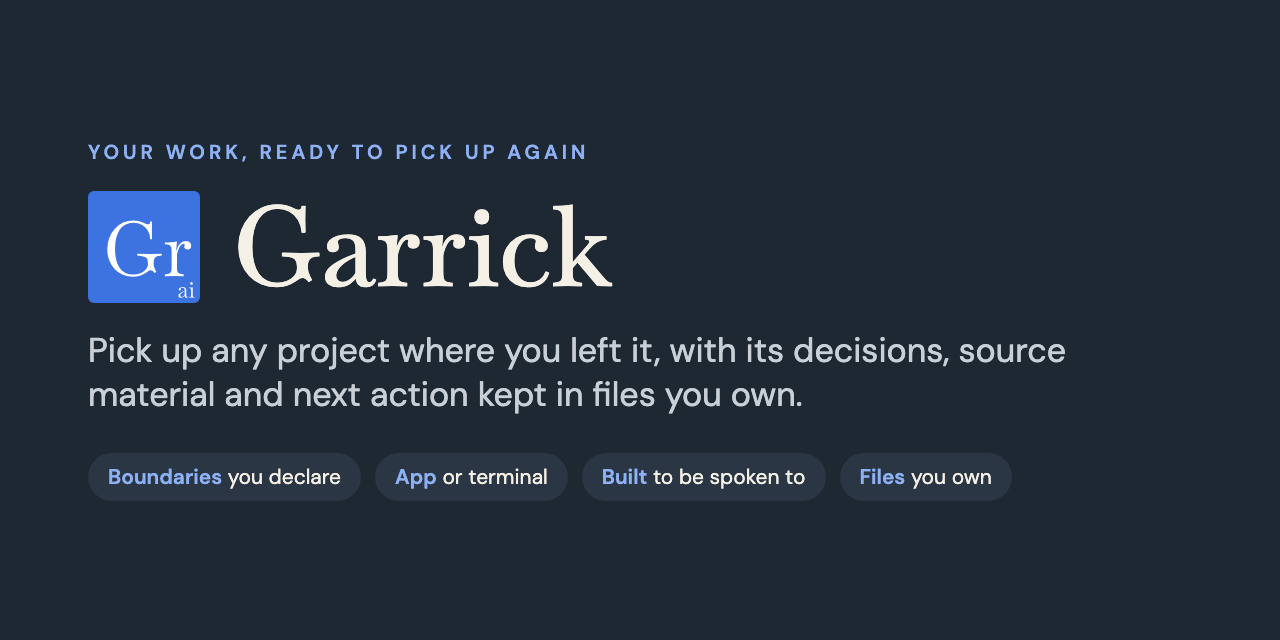
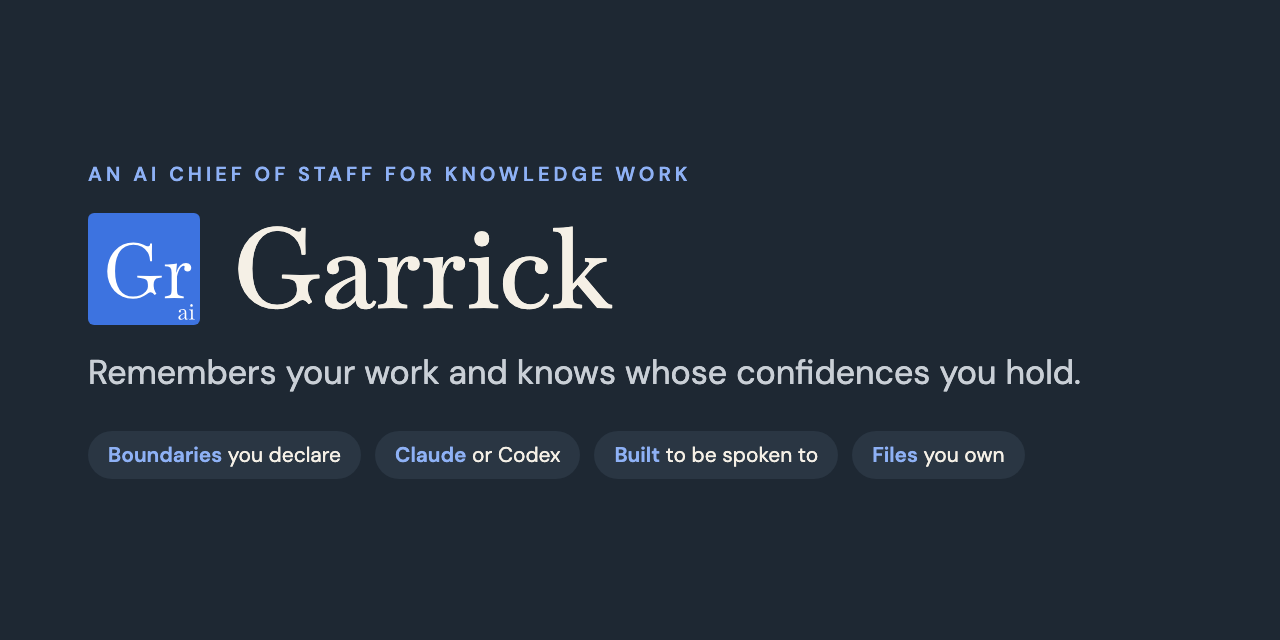
Garrick 0.3.1: an AI chief of staff that knows whose confidences you hold
README, social card, deck and walkthrough captions take the new wording:
"Garrick remembers your work and knows whose confidences you hold. An AI
chief of staff for your knowledge work, running on the agent you already
use. Everything stays in files you own." The README embeds the re-cut
walkthrough.

diff --git a/presentation/index.html b/presentation/index.html
@@ -446,9 +446,9 @@ body.editing .editable {
       <svg class="cover-mark reveal" viewBox="0 0 64 64" xmlns="http://www.w3.org/2000/svg" role="img" aria-label="Garrick's mark"><rect width="64" height="64" rx="3.5" fill="#3D73E0"/><path d="M397 -11Q325 -11 263.5 15.5Q202 42 157.0 90.5Q112 139 87.0 204.5Q62 270 62 348Q62 427 88.0 495.5Q114 564 160.5 615.0Q207 666 269.0 695.0Q331 724 403 724Q436 724 468.0 717.5Q500 711 536 692Q558 681 570.0 677.0Q582 673 592 673Q621 673 621 710H646L644 595L646 478H621Q619 543 590.5 591.5Q562 640 513.5 667.0Q465 694 402 694Q289 694 226.5 604.0Q164 514 164 350Q164 190 224.5 104.5Q285 19 398 19Q451 19 495.0 36.5Q539 54 565.5 83.0Q592 112 592 146V174Q592 218 571.5 237.0Q551 256 496 261L453 265V289L619 285L773 289V265L728 261Q667 255 667 174V156Q667 118 689 79L703 54L680 39Q656 75 629 75Q619 75 611.5 71.5Q604 68 576 48Q533 17 490.0 3.0Q447 -11 397 -11Z" fill="#FFFFFF" transform="translate(8.28 48.54) scale(0.04384 -0.04384)"/><path d="M28 -3V20L44 22Q77 26 92.0 33.5Q107 41 111.5 61.0Q116 81 116 121V329Q116 378 97.5 395.5Q79 413 28 413V436Q68 436 105.5 439.0Q143 442 186 448L175 333H186V121Q186 81 190.5 61.0Q195 41 210.5 33.5Q226 26 258 22L274 20V-3L151 0ZM184 269 173 312Q194 391 228.0 422.5Q262 454 304 454Q344 454 358.0 434.0Q372 414 372 394Q372 372 359.0 358.0Q346 344 323 344Q305 344 293.0 353.5Q281 363 281 378Q281 383 282.0 387.0Q283 391 284 398Q285 402 285.5 405.0Q286 408 286 410Q286 420 272 420Q254 420 236.5 399.5Q219 379 205.0 345.0Q191 311 184 269Z" fill="#FFFFFF" transform="translate(42.69 48.54) scale(0.04384 -0.04384)"/><path d="M405 -11Q362 -11 343.5 16.0Q325 43 325 104V320Q325 379 302.5 404.0Q280 429 227 429Q191 429 169.5 420.0Q148 411 148 396Q148 392 149.5 387.5Q151 383 152 377Q157 357 157 349Q157 333 144.5 321.5Q132 310 112 310Q93 310 81.0 323.5Q69 337 69 358Q69 386 91.5 407.5Q114 429 153.5 441.5Q193 454 244 454Q323 454 359.0 416.5Q395 379 395 296V116Q395 65 403.0 44.5Q411 24 430 24Q444 24 455.5 33.5Q467 43 472 59L490 52Q472 -11 405 -11ZM163 -11Q112 -11 81.0 14.0Q50 39 50 79Q50 117 81.0 151.5Q112 186 180 223Q210 240 247.0 256.5Q284 273 329 289L330 270Q233 230 180.5 182.0Q128 134 128 87Q128 58 145.0 42.0Q162 26 193 26Q221 26 248.5 40.5Q276 55 297.5 78.5Q319 102 328 130L334 97Q309 47 263.5 18.0Q218 -11 163 -11Z" fill="#FFFFFF" transform="translate(50.99 60.86) scale(0.01310 -0.01310)"/><path d="M28 -3V20L44 22Q77 26 92.0 33.5Q107 41 111.5 61.0Q116 81 116 121V332Q116 377 98.0 395.0Q80 413 35 413H28V436Q78 436 114.5 438.5Q151 441 186 448V121Q186 81 190.5 61.0Q195 41 210.5 33.5Q226 26 258 22L274 20V-3L151 0ZM132 554Q106 554 91.0 572.0Q76 590 76 615Q76 641 91.0 658.5Q106 676 132 676Q161 676 174.5 658.5Q188 641 188 615Q188 590 174.5 572.0Q161 554 132 554Z" fill="#FFFFFF" transform="translate(57.41 60.86) scale(0.01310 -0.01310)"/></svg>
       <p class="kicker reveal">For people who hold other people's confidences</p>
       <h1 class="deck-title reveal editable" data-edit-id="cover-title">Garrick</h1>
-      <p class="subtitle reveal editable" data-edit-id="cover-sub">A workspace, run by the AI assistant you choose, kept in files you own.</p>
+      <p class="subtitle reveal editable" data-edit-id="cover-sub">An AI chief of staff for your knowledge work, running on the agent you already use. Everything stays in files you own.</p>
       <p class="byline reveal">Marco Venuti</p>
-      <aside class="notes">Open by naming who's in the room: anyone holding confidences from more than one source: advisors and consultants, account and partner managers, analysts, people on internal projects that aren't for everyone. Lead with picking up work from a saved record. Introduce declared boundaries with their limits.</aside>
+      <aside class="notes">Open by naming who's in the room: anyone holding confidences from more than one source: advisors and consultants, account and partner managers, analysts, people on internal projects that aren't for everyone. Lead with the chief of staff: it remembers the work and knows whose confidences you hold. Claude Code or Codex is the agent underneath. Introduce declared boundaries with their limits.</aside>
     </section>
 
     <!-- ============================================================
@@ -468,8 +468,8 @@ body.editing .editable {
          ============================================================ -->
     <section class="slide slide--navy slide--statement" data-title="The claim">
       <p class="kicker reveal">The idea, in one line</p>
-      <p class="statement reveal editable" data-edit-id="claim-statement">Pick up where you left off, from a record you own.</p>
-      <p class="statement-sub reveal">Keep decisions and sources with the work. Give the assistant explicit rules for using them.</p>
+      <p class="statement reveal editable" data-edit-id="claim-statement">Garrick remembers your work and knows whose confidences you hold.</p>
+      <p class="statement-sub reveal">Decisions and sources stay with the work, in files you own. The agent underneath gets explicit rules for using them.</p>
       <aside class="notes">Say this one slowly. Everything after it is mechanism, not more argument.</aside>
     </section>
 

diff --git a/docs/assets/social-preview.html b/docs/assets/social-preview.html
@@ -14,8 +14,8 @@
   .lockup svg{width:112px;height:112px;flex:none}
 </style></head>
 <body><div class="card">
-  <p class="eyebrow">Your work, ready to pick up again</p>
+  <p class="eyebrow">An AI chief of staff for knowledge work</p>
   <div class="lockup"><svg viewBox="0 0 64 64" xmlns="http://www.w3.org/2000/svg"><rect width="64" height="64" rx="3.5" fill="#3D73E0"/><path d="M397 -11Q325 -11 263.5 15.5Q202 42 157.0 90.5Q112 139 87.0 204.5Q62 270 62 348Q62 427 88.0 495.5Q114 564 160.5 615.0Q207 666 269.0 695.0Q331 724 403 724Q436 724 468.0 717.5Q500 711 536 692Q558 681 570.0 677.0Q582 673 592 673Q621 673 621 710H646L644 595L646 478H621Q619 543 590.5 591.5Q562 640 513.5 667.0Q465 694 402 694Q289 694 226.5 604.0Q164 514 164 350Q164 190 224.5 104.5Q285 19 398 19Q451 19 495.0 36.5Q539 54 565.5 83.0Q592 112 592 146V174Q592 218 571.5 237.0Q551 256 496 261L453 265V289L619 285L773 289V265L728 261Q667 255 667 174V156Q667 118 689 79L703 54L680 39Q656 75 629 75Q619 75 611.5 71.5Q604 68 576 48Q533 17 490.0 3.0Q447 -11 397 -11Z" fill="#FFFFFF" transform="translate(8.28 48.54) scale(0.04384 -0.04384)"/><path d="M28 -3V20L44 22Q77 26 92.0 33.5Q107 41 111.5 61.0Q116 81 116 121V329Q116 378 97.5 395.5Q79 413 28 413V436Q68 436 105.5 439.0Q143 442 186 448L175 333H186V121Q186 81 190.5 61.0Q195 41 210.5 33.5Q226 26 258 22L274 20V-3L151 0ZM184 269 173 312Q194 391 228.0 422.5Q262 454 304 454Q344 454 358.0 434.0Q372 414 372 394Q372 372 359.0 358.0Q346 344 323 344Q305 344 293.0 353.5Q281 363 281 378Q281 383 282.0 387.0Q283 391 284 398Q285 402 285.5 405.0Q286 408 286 410Q286 420 272 420Q254 420 236.5 399.5Q219 379 205.0 345.0Q191 311 184 269Z" fill="#FFFFFF" transform="translate(42.69 48.54) scale(0.04384 -0.04384)"/><path d="M405 -11Q362 -11 343.5 16.0Q325 43 325 104V320Q325 379 302.5 404.0Q280 429 227 429Q191 429 169.5 420.0Q148 411 148 396Q148 392 149.5 387.5Q151 383 152 377Q157 357 157 349Q157 333 144.5 321.5Q132 310 112 310Q93 310 81.0 323.5Q69 337 69 358Q69 386 91.5 407.5Q114 429 153.5 441.5Q193 454 244 454Q323 454 359.0 416.5Q395 379 395 296V116Q395 65 403.0 44.5Q411 24 430 24Q444 24 455.5 33.5Q467 43 472 59L490 52Q472 -11 405 -11ZM163 -11Q112 -11 81.0 14.0Q50 39 50 79Q50 117 81.0 151.5Q112 186 180 223Q210 240 247.0 256.5Q284 273 329 289L330 270Q233 230 180.5 182.0Q128 134 128 87Q128 58 145.0 42.0Q162 26 193 26Q221 26 248.5 40.5Q276 55 297.5 78.5Q319 102 328 130L334 97Q309 47 263.5 18.0Q218 -11 163 -11Z" fill="#FFFFFF" transform="translate(50.99 60.86) scale(0.01310 -0.01310)"/><path d="M28 -3V20L44 22Q77 26 92.0 33.5Q107 41 111.5 61.0Q116 81 116 121V332Q116 377 98.0 395.0Q80 413 35 413H28V436Q78 436 114.5 438.5Q151 441 186 448V121Q186 81 190.5 61.0Q195 41 210.5 33.5Q226 26 258 22L274 20V-3L151 0ZM132 554Q106 554 91.0 572.0Q76 590 76 615Q76 641 91.0 658.5Q106 676 132 676Q161 676 174.5 658.5Q188 641 188 615Q188 590 174.5 572.0Q161 554 132 554Z" fill="#FFFFFF" transform="translate(57.41 60.86) scale(0.01310 -0.01310)"/></svg><h1>Garrick</h1></div>
-  <p class="tag">Pick up any project where you left it, with its decisions, source material and next action kept in files you own.</p>
-  <div class="pills"><span><b>Boundaries</b> you declare</span><span><b>App</b> or terminal</span><span><b>Built</b> to be spoken to</span><span><b>Files</b> you own</span></div>
+  <p class="tag">Remembers your work and knows whose confidences you hold.</p>
+  <div class="pills"><span><b>Boundaries</b> you declare</span><span><b>Claude</b> or Codex</span><span><b>Built</b> to be spoken to</span><span><b>Files</b> you own</span></div>
 </div></body></html>

diff --git a/README.md b/README.md
@@ -4,15 +4,17 @@
 
 [![Tests](https://github.com/iamvenuti/garrick/actions/workflows/tests.yml/badge.svg)](https://github.com/iamvenuti/garrick/actions/workflows/tests.yml) [![MIT licence](https://img.shields.io/badge/licence-MIT-blue.svg)](LICENSE) ![macOS](https://img.shields.io/badge/platform-macOS-lightgrey.svg) ![Python 3.9+](https://img.shields.io/badge/python-3.9%2B-blue.svg)
 
-**Pick up any project where you left it, with its decisions, source material and next action kept in files you own.**
+**Garrick remembers your work and knows whose confidences you hold.**
 
-Garrick gives Claude Code or Codex a workspace for your work and your memory. Ask it to file a conversation, prepare a brief or close a session. It keeps the record in plain folders on your Mac, so another session can pick up from the saved notes.
+An AI chief of staff for your knowledge work, running on the agent you already use. Everything stays in files you own.
 
-Your work may involve customers, partners under NDA and internal projects. Garrick records whose information you hold, gives the assistant rules for using it, and checks project files for specific signs of information crossing a declared boundary.
+Underneath, Claude Code or Codex does the work, in its desktop app or a terminal. Ask Garrick to file a conversation, prepare a brief or close a session. It keeps the record in plain folders on your Mac, so the next session picks up from the saved notes, whichever agent runs it.
 
-[![A dramatised example of a brief using one client's meeting and holding back the other client's material.](docs/assets/demo-wall.gif)](https://github.com/user-attachments/assets/cc315cd1-d505-4d9b-b477-bd0976888aa9)
+Your work may involve customers, partners under NDA and internal projects. Garrick records whose information you hold, gives the agent rules for using it, and checks project files for specific signs of information crossing a declared boundary.
 
-https://github.com/user-attachments/assets/cc315cd1-d505-4d9b-b477-bd0976888aa9
+[![A dramatised example of a brief using one client's meeting and holding back the other client's material.](docs/assets/demo-wall.gif)](https://github.com/user-attachments/assets/83ce60b8-a4d4-402f-bc24-804eaddda3c1)
+
+https://github.com/user-attachments/assets/83ce60b8-a4d4-402f-bc24-804eaddda3c1
 
 *The walkthrough, 98 seconds, with [captions](docs/assets/garrick-launch-video.srt). Dramatised with fictional data; it illustrates the intended workflow.*
 

diff --git a/CHANGELOG.md b/CHANGELOG.md
@@ -4,6 +4,15 @@ What changed in each release. Dates are when the release was tagged. The format 
 
 ## [Unreleased]
 
+## [0.3.1] - 2026-10-04
+
+New wording: Garrick as an AI chief of staff that remembers your work and knows whose confidences you hold, running on the agent you already use.
+
+### Changed
+
+- The README opens with "Garrick remembers your work and knows whose confidences you hold", then "An AI chief of staff for your knowledge work, running on the agent you already use. Everything stays in files you own." Claude Code or Codex is described as the agent underneath. The GitHub description, the social card and the deck's cover and claim slide say the same.
+- The launch walkthrough is re-cut with that wording at the opening, in the first app scene and at the close. The rest of the walkthrough is unchanged; captions in `docs/assets/garrick-launch-video.srt`.
+
 ## [0.3.0] - 2026-10-04
 
 The status page in a Mac app of its own, and a page that offers Obsidian and cmux only where the machine has them.
@@ -91,7 +100,8 @@ First public release.
 - A demo workspace built by `examples/demo/build.py`: an invented advisor, four weeks in.
 - Documentation, the extras (tools that pair with Garrick but are not part of it), and a fifteen-slide introduction.
 
-[Unreleased]: https://github.com/iamvenuti/garrick/compare/v0.3.0...HEAD
+[Unreleased]: https://github.com/iamvenuti/garrick/compare/v0.3.1...HEAD
+[0.3.1]: https://github.com/iamvenuti/garrick/compare/v0.3.0...v0.3.1
 [0.3.0]: https://github.com/iamvenuti/garrick/compare/v0.2.0...v0.3.0
 [0.2.0]: https://github.com/iamvenuti/garrick/compare/v0.1.0...v0.2.0
 [0.1.0]: https://github.com/iamvenuti/garrick/releases/tag/v0.1.0
